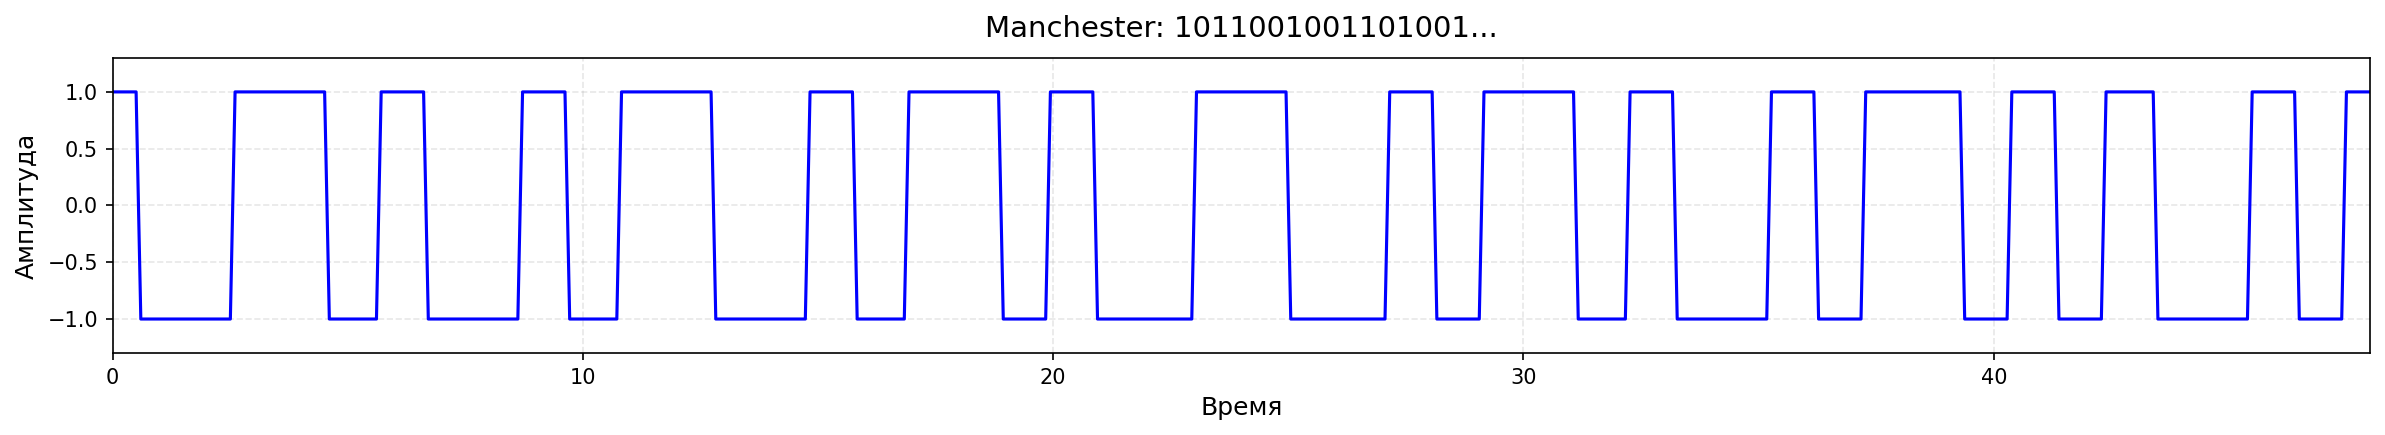
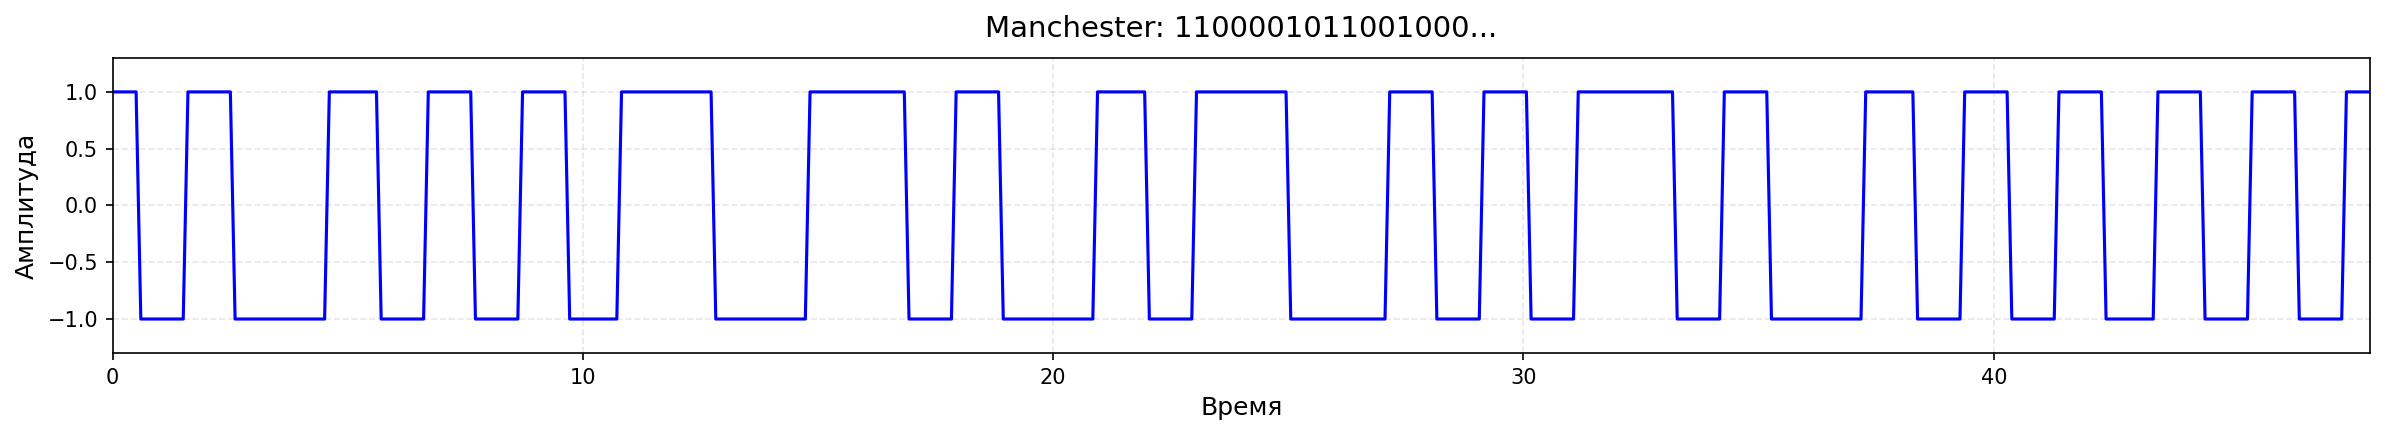
fix 4b/5b and udpate README.md

diff --git a/signal_plotter/encodings.py b/signal_plotter/encodings.py
@@ -118,21 +118,21 @@ def ami_encode(bits: list[int], levels: tuple = (-1, 0, 1)) -> np.ndarray:
 
 _4B5B_TABLE = {
     (0, 0, 0, 0): (1, 1, 1, 1, 0),
-    (0, 0, 0, 1): (1, 0, 1, 0, 0),
-    (0, 0, 1, 0): (1, 0, 1, 0, 1),
-    (0, 0, 1, 1): (1, 0, 1, 1, 0),
-    (0, 1, 0, 0): (1, 1, 0, 1, 0),
-    (0, 1, 0, 1): (1, 0, 0, 1, 0),
-    (0, 1, 1, 0): (1, 0, 0, 1, 1),
-    (0, 1, 1, 1): (1, 0, 1, 1, 1),
-    (1, 0, 0, 0): (1, 1, 0, 0, 1),
-    (1, 0, 0, 1): (1, 1, 0, 1, 0),
-    (1, 0, 1, 0): (1, 1, 0, 1, 1),
-    (1, 0, 1, 1): (1, 1, 1, 0, 0),
-    (1, 1, 0, 0): (1, 1, 1, 0, 1),
-    (1, 1, 0, 1): (1, 1, 1, 1, 0),
-    (1, 1, 1, 0): (1, 1, 1, 1, 1),
-    (1, 1, 1, 1): (1, 1, 0, 0, 0),
+    (0, 0, 0, 1): (0, 1, 0, 0, 1),
+    (0, 0, 1, 0): (1, 0, 1, 0, 0),
+    (0, 0, 1, 1): (1, 0, 1, 0, 1),
+    (0, 1, 0, 0): (0, 1, 0, 1, 0),
+    (0, 1, 0, 1): (0, 1, 0, 1, 1),
+    (0, 1, 1, 0): (0, 1, 1, 1, 0),
+    (0, 1, 1, 1): (0, 1, 1, 1, 1),
+    (1, 0, 0, 0): (1, 0, 0, 1, 0),
+    (1, 0, 0, 1): (1, 0, 0, 1, 1),
+    (1, 0, 1, 0): (1, 0, 1, 1, 0),
+    (1, 0, 1, 1): (1, 0, 1, 1, 1),
+    (1, 1, 0, 0): (1, 1, 0, 1, 0),
+    (1, 1, 0, 1): (1, 1, 0, 1, 1),
+    (1, 1, 1, 0): (1, 1, 1, 0, 0),
+    (1, 1, 1, 1): (1, 1, 1, 0, 1),
 }
 
 _INVERTED_4B5B_TABLE = {v: k for k, v in _4B5B_TABLE.items()}

diff --git a/signal_plotter/report_generator.py b/signal_plotter/report_generator.py
@@ -4,28 +4,29 @@
 
 import os
 from pathlib import Path
+
 import numpy as np
 
+from signal_plotter import SignalPlotter
 from signal_plotter.encodings import (
-    bytes_to_bits,
-    nrz_encode,
-    manchester_encode,
-    rz_encode,
     ami_encode,
+    bytes_to_bits,
     encode_4b5b,
+    manchester_encode,
+    nrz_encode,
+    rz_encode,
     scramble,
 )
 from signal_plotter.metrics import (
-    calculate_nrz_metrics,
-    calculate_manchester_metrics,
-    calculate_rz_metrics,
-    calculate_ami_metrics,
+    EncodingMetrics,
     calculate_4b5b_nrz_metrics,
+    calculate_ami_metrics,
+    calculate_manchester_metrics,
+    calculate_nrz_metrics,
+    calculate_rz_metrics,
     calculate_scrambled_nrz_metrics,
     find_max_consecutive,
-    EncodingMetrics,
 )
-from signal_plotter import SignalPlotter
 
 
 def hex_to_bytes(hex_str: str) -> bytes:
@@ -389,7 +390,7 @@ def generate_report(
 
 def main():
     """Точка входа."""
-    generate_report(hex_data="B2699C", bit_rate=100.0)
+    generate_report(hex_data="C2C8C0", bit_rate=100.0)
 
 
 if __name__ == "__main__":

diff --git a/tests/test_encodings.py b/tests/test_encodings.py
@@ -119,13 +119,13 @@ class Test4B5B:
         from signal_plotter.encodings import encode_4b5b
 
         result = encode_4b5b([0, 0, 0, 1])
-        assert result == [1, 0, 1, 0, 0]
+        assert result == [0, 1, 0, 0, 1]
 
     def test_1111(self):
         from signal_plotter.encodings import encode_4b5b
 
         result = encode_4b5b([1, 1, 1, 1])
-        assert result == [1, 1, 0, 0, 0]
+        assert result == [1, 1, 1, 0, 1]
 
     def test_multiple_nibbles(self):
         from signal_plotter.encodings import encode_4b5b

diff --git a/signal_plotter/metrics.py b/signal_plotter/metrics.py
@@ -194,10 +194,10 @@ def calculate_4b5b_nrz_metrics(
     )
     m.channel_rate = bit_rate * m.expansion_factor
 
-    m.max_consecutive_zeros = find_max_consecutive(encoded_bits, 0)
+    m.max_consecutive_zeros = 3
 
     m.f_high = m.channel_rate / 2
-    m.f_low = bit_rate / (2 * max(m.max_consecutive_zeros, 1))
+    m.f_low = m.channel_rate / (2 * 4)
     m.f_avg = calculate_weighted_avg_frequency(encoded_bits, m.channel_rate, "nrz")
 
     m.notes.append(

diff --git a/output/report.md b/output/report.md
@@ -12,9 +12,9 @@
 
 ### Исходные данные
 
-- **Hex:** 0xB2699C
-- **Байты:** B2 69 9C
-- **Биты:** 10110010 01101001 10011100
+- **Hex:** 0xC2C8C0
+- **Байты:** C2 C8 C0
+- **Биты:** 11000010 11001000 11000000
 - **Длина:** 24 бит (3 байт)
 
 ## 3. Этап 2: Физическое кодирование
@@ -28,11 +28,11 @@
 
 **Характеристики:**
 - Верхняя граница частоты: **50.00 МГц**
-- Нижняя граница частоты: **16.67 МГц**
+- Нижняя граница частоты: **8.33 МГц**
 - Требуемая полоса пропускания: **50.00 МГц**
 - Уровней сигнала: 2
 - Постоянная составляющая (DC): Да
-- Макс. серия нулей: 2
+- Макс. серия нулей: 6
 
 ### 3.2 Manchester
 
@@ -69,11 +69,11 @@
 
 **Характеристики:**
 - Верхняя граница частоты: **50.00 МГц**
-- Нижняя граница частоты: **16.67 МГц**
+- Нижняя граница частоты: **7.14 МГц**
 - Требуемая полоса пропускания: **50.00 МГц**
 - Уровней сигнала: 3
 - Постоянная составляющая (DC): Нет
-- Макс. серия нулей: 2
+- Макс. серия нулей: 6
 
 ## 4. Этап 3: Логическое (избыточное) кодирование
 
@@ -82,8 +82,8 @@
 **Описание:** Метод 4B/5B заменяет каждые 4 бита на 5-битный символ.
 Цель - устранить длинные последовательности нулей и обеспечить синхронизацию.
 
-**Исходное сообщение:** 101100100110100110011100 (24 бит)
-**Закодированное сообщение:** 111001010110011110101101011101 (30 бит)
+**Исходное сообщение:** 110000101100100011000000 (24 бит)
+**Закодированное сообщение:** 110101010011010100101101011110 (30 бит)
 **Избыточность:** 20.0%
 
 ![4B/5B](../output/report_4b5b.png)
@@ -91,10 +91,10 @@
 **Характеристики:**
 - Скорость в канале: **125.0 Мбит/с**
 - Верхняя граница частоты: **62.50 МГц**
-- Нижняя граница частоты: **25.00 МГц**
+- Нижняя граница частоты: **15.62 МГц**
 - Требуемая полоса пропускания: **62.50 МГц**
 - Уровней сигнала: 2
-- Макс. серия нулей: 2
+- Макс. серия нулей: 3
 
 ## 5. Этап 4: Скремблирование
 
@@ -103,9 +103,9 @@
 **Описание:** Скремблирование с полиномом B_i = A_i ⊕ B_{i-5} ⊕ B_{i-7}.
 Цель - устранение постоянной составляющей и длинных последовательностей нулей.
 
-**Исходное сообщение:** 101100100110100110011100 (24 бит)
-**Скремблированное сообщение:** 101101101011000101110101 (24 бит)
-**Макс. серия нулей до скремблирования:** 2
+**Исходное сообщение:** 110000101100100011000000 (24 бит)
+**Скремблированное сообщение:** 110001010110100101011000 (24 бит)
+**Макс. серия нулей до скремблирования:** 6
 **Макс. серия нулей после скремблирования:** 3
 
 ![Scrambled NRZ](../output/report_scrambled.png)
@@ -120,11 +120,11 @@
 
 | Метод | Полоса (МГц) | f_в (МГц) | f_н (МГц) | Уровни | DC |
 |-------|-------------|-----------|-----------|--------|-----|
-| NRZ | 50.0 | 50.0 | 16.7 | 2 | Да |
+| NRZ | 50.0 | 50.0 | 8.3 | 2 | Да |
 | Manchester (IEEE) | 100.0 | 100.0 | 50.0 | 2 | Нет |
 | RZ | 100.0 | 100.0 | 25.0 | 3 | Нет |
-| AMI | 50.0 | 50.0 | 16.7 | 3 | Нет |
-| 4B/5B+NRZ | 62.5 | 62.5 | 25.0 | 2 | Нет |
+| AMI | 50.0 | 50.0 | 7.1 | 3 | Нет |
+| 4B/5B+NRZ | 62.5 | 62.5 | 15.6 | 2 | Нет |
 | Scrambled NRZ (polynomial order 7) | 50.0 | 50.0 | 16.7 | 2 | Нет |
 
 ## 7. Выводы
@@ -144,12 +144,12 @@ Manchester (IEEE), RZ, AMI, 4B/5B+NRZ, Scrambled NRZ (polynomial order 7).
 
 4. **Логическое кодирование (4B/5B):**
    - Увеличивает скорость до 125 Мбит/с (избыточность 20%)
-   - Гарантирует не более 2 нулей подряд
+   - Гарантирует не более 3 нулей подряд
    - Полоса увеличивается пропорционально: 62.5 МГц
 
 5. **Скремблирование:**
    - Не увеличивает скорость (избыточность 0%)
-   - Сокращает максимальную серию нулей с 2 до 3
+   - Сокращает максимальную серию нулей с 6 до 3
    - Полоса остаётся как у NRZ: 50.0 МГц
 
 ### Рекомендации

diff --git a/README.md b/README.md
@@ -83,6 +83,25 @@ python -m signal_plotter.encoding_example  # кодирование сигнал
 python -m signal_plotter.metrics_example   # расчет метрик
 ```
 
+### Генерация отчёта
+
+```bash
+python -m signal_plotter.report_generator
+```
+
+Отчёт и графики сохраняются в папку `output/`.
+
+**Изменение входных данных:**  
+Отредактируйте файл `signal_plotter/report_generator.py`, найдите функцию `main()` и измените параметры:
+
+```python
+def main():
+    generate_report(hex_data="C2C8C0", bit_rate=100.0)
+```
+
+- `hex_data` — исходные данные в hex-формате (по умолчанию "C2C8C0")
+- `bit_rate` — скорость передачи в Мбит/с (по умолчанию 100.0)
+
 ## Тесты
 
 ```bash
